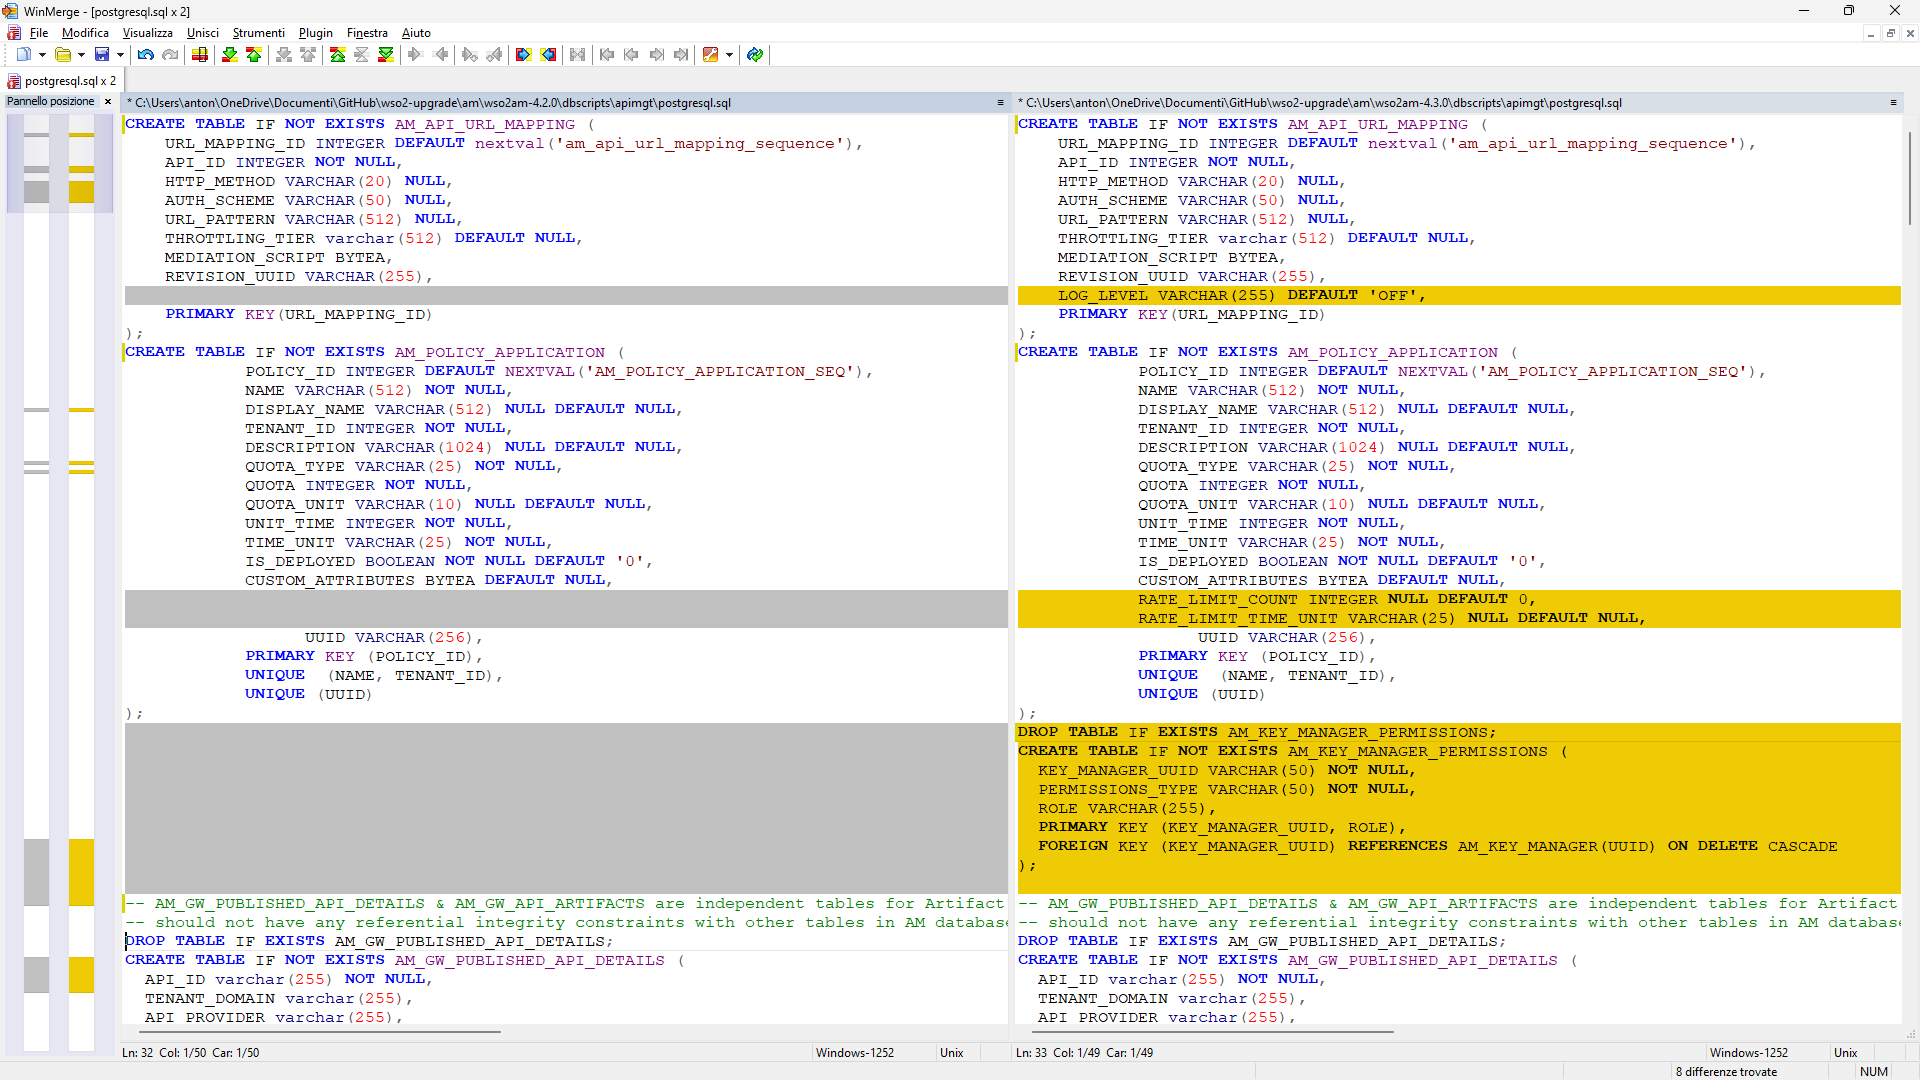
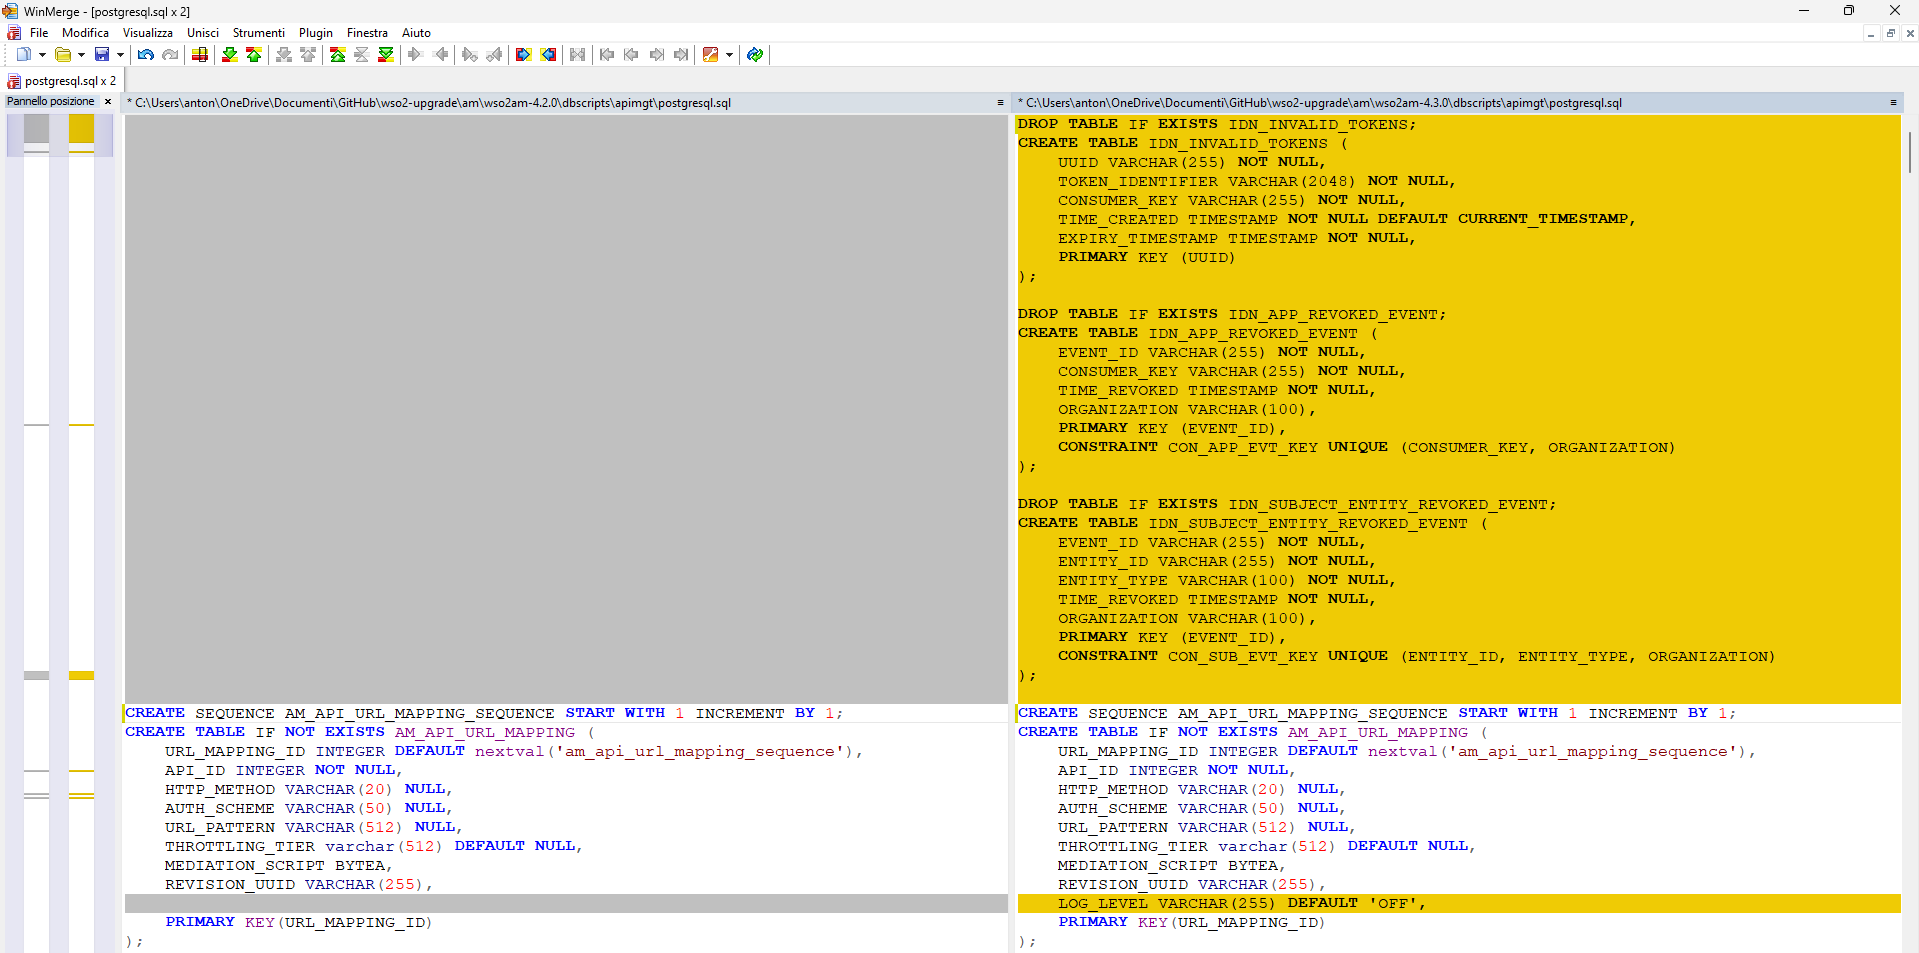
am 420to430

diff --git a/am/420to430/db/postgres/AM_DB-420to430.html b/am/420to430/db/postgres/AM_DB-420to430.html
@@ -29,21 +29,26 @@
 			font-family: Courier New;
 			font-size: 12px;
 		}
+		h1 { 
+			font-family: Courier New;
+			font-size: 24px;
+		}
 		img { 
 			width: 100%;
 		}
 		</style>
 	</head>
 	<body>
+		<h1>Attenzione: verificare la sintassi degli script per ADD, ALTER e DROP CONSTRAINT</h1>
 	<table>
 		<tr>
 			<th>AM 4.2.0 - WSO2AM_DB</th>
 			<th>AM 4.3.0 - WSO2AM_DB</th>
 			<th>Script</th>
 		</tr>
-		<!-- Screenshot 00 -->
+		<!-- Screenshot 01 -->
 		<tr>
-			<td colspan="2"><img src="img/420to430_00.png"></td>
+			<td colspan="2"><img src="img/420to430_01.png"></td>
 			<td>
 				<pre>
 DROP TABLE IF EXISTS IDN_INVALID_TOKENS;
@@ -76,28 +81,9 @@ CREATE TABLE IDN_SUBJECT_ENTITY_REVOKED_EVENT (
 	PRIMARY KEY (EVENT_ID),
 	CONSTRAINT CON_SUB_EVT_KEY UNIQUE (ENTITY_ID, ENTITY_TYPE, ORGANIZATION)
 );
+
+ALTER TABLE AM_API_URL_MAPPING ADD COLUMN LOG_LEVEL VARCHAR(255) DEFAULT 'OFF';
 				</pre>
-			</td>
-		</tr>
-		<!-- Screenshot 01 -->
-		<tr>
-			<td colspan="2"><img src="img/420to430_01.png"></td>
-			<td>
-				<ul>
-					<li>ALTER TABLE AM_API_URL_MAPPING ADD COLUMN LOG_LEVEL VARCHAR(255) DEFAULT 'OFF';</li>
-					<li>ALTER TABLE AM_POLICY_APPLICATION ADD COLUMN RATE_LIMIT_COUNT INTEGER NULL DEFAULT 0;</li>
-					<li>ALTER TABLE AM_POLICY_APPLICATION ADD COLUMN RATE_LIMIT_TIME_UNIT VARCHAR(25) NULL DEFAULT NULL;</li>
-					<li>DROP TABLE IF EXISTS AM_KEY_MANAGER_PERMISSIONS;</li>
-					<li><pre>
-CREATE TABLE IF NOT EXISTS AM_KEY_MANAGER_PERMISSIONS (
-	KEY_MANAGER_UUID VARCHAR(50) NOT NULL,
-	PERMISSIONS_TYPE VARCHAR(50) NOT NULL,
-	ROLE VARCHAR(255),
-	PRIMARY KEY (KEY_MANAGER_UUID, ROLE),
-	FOREIGN KEY (KEY_MANAGER_UUID) REFERENCES AM_KEY_MANAGER(UUID) ON DELETE CASCADE
-);
-				</pre></li>
-				</ul>
 			</td>
 		</tr>
 		<!-- Screenshot 02 -->
@@ -105,9 +91,19 @@ CREATE TABLE IF NOT EXISTS AM_KEY_MANAGER_PERMISSIONS (
 			<td colspan="2"><img src="img/420to430_02.png"></td>
 			<td>
 				<ul>
+					<li>ALTER TABLE AM_POLICY_APPLICATION ADD COLUMN RATE_LIMIT_COUNT INTEGER NULL DEFAULT 0;</li>
+					<li>ALTER TABLE AM_POLICY_APPLICATION ADD COLUMN RATE_LIMIT_TIME_UNIT VARCHAR(25) NULL DEFAULT NULL;</li>
+					<li><pre>
+DROP TABLE IF EXISTS AM_KEY_MANAGER_PERMISSIONS;
+CREATE TABLE IF NOT EXISTS AM_KEY_MANAGER_PERMISSIONS (
+	KEY_MANAGER_UUID VARCHAR(50) NOT NULL,
+	PERMISSIONS_TYPE VARCHAR(50) NOT NULL,
+	ROLE VARCHAR(255),
+	PRIMARY KEY (KEY_MANAGER_UUID, ROLE),
+	FOREIGN KEY (KEY_MANAGER_UUID) REFERENCES AM_KEY_MANAGER(UUID) ON DELETE CASCADE
+);
+					</pre></li>
 					<li>ALTER TABLE AM_DEPLOYMENT_REVISION_MAPPING ADD COLUMN REVISION_STATUS VARCHAR(255) NULL;</li>
-					<li>ALTER TABLE AM_GATEWAY_ENVIRONMENT ADD COLUMN TYPE VARCHAR(255) NULL;</li>
-					<li>ALTER TABLE AM_GATEWAY_ENVIRONMENT ADD COLUMN GATEWAY_TYPE VARCHAR(255) NOT NULL;</li>
 				</ul>
 			</td>
 		</tr>
@@ -115,7 +111,10 @@ CREATE TABLE IF NOT EXISTS AM_KEY_MANAGER_PERMISSIONS (
 		<tr>
 			<td colspan="2"><img src="img/420to430_03.png"></td>
 			<td>
-				<pre>
+				<ul>
+					<li>ALTER TABLE AM_GATEWAY_ENVIRONMENT ADD COLUMN TYPE VARCHAR(255) NULL;</li>
+					<li>ALTER TABLE AM_GATEWAY_ENVIRONMENT ADD GATEWAY_TYPE VARCHAR(255) NOT NULL;</li>
+					<li><pre>
 DROP TABLE IF EXISTS AM_GATEWAY_POLICY_METADATA;
 CREATE TABLE IF NOT EXISTS AM_GATEWAY_POLICY_METADATA (
 	GLOBAL_POLICY_MAPPING_UUID VARCHAR(45)   NOT NULL,
@@ -146,14 +145,7 @@ CREATE TABLE IF NOT EXISTS AM_GATEWAY_POLICY_DEPLOYMENT (
 	FOREIGN KEY (GLOBAL_POLICY_MAPPING_UUID) REFERENCES AM_GATEWAY_POLICY_METADATA (GLOBAL_POLICY_MAPPING_UUID) ON UPDATE CASCADE ON DELETE RESTRICT,
 	PRIMARY KEY (ORGANIZATION,GATEWAY_LABEL)
 );
-				</pre>
-			</td>
-		</tr>
-		<!-- Screenshot 04 -->
-		<tr>
-			<td colspan="2"><img src="img/420to430_04.png"></td>
-			<td>
-				<pre>
+
 DROP TABLE IF EXISTS AM_APP_REVOKED_EVENT;
 CREATE TABLE IF NOT EXISTS AM_APP_REVOKED_EVENT (
 	CONSUMER_KEY    VARCHAR(255)    NOT NULL,
@@ -170,7 +162,8 @@ CREATE TABLE IF NOT EXISTS AM_SUBJECT_ENTITY_REVOKED_EVENT (
 	ORGANIZATION    VARCHAR(100),
 	PRIMARY KEY (ENTITY_ID, ENTITY_TYPE, ORGANIZATION)
 );
-				</pre>
+					</pre></li>
+				</ul>
 			</td>
 		</tr>
 	</table>

diff --git a/am/420to430/db/postgres/README.md b/am/420to430/db/postgres/README.md
@@ -1,10 +1,7 @@
-# WSO2 APIM 4.1.0 to 4.2.0 PostGres DB Comparison
+# WSO2 APIM 4.3.0 to 4.3.0 PostGres DB Comparison
 
-Bla bla bla bla
+La tabella a <a href="https://html-preview.github.io/?url=https://github.com/antonioPetrocelli/wso2-upgrade/blob/master/am/420to430/db/postgres/AM_DB-420to430.html" target="_blank">AM_DB-420to430</a> mostra graficamente le differenze nella struttura del database PostGres WSO2AM_DB tra la versione 4.2.0 e la versione 4.3.0 e riporta gli script di aggiornamento da eseguire sul nuovo DB, creato a partire da una copia di quello utilizzato nella versione 4.2.0, per aggiornarlo alla versione 4.3.0
 
-<a href="https://html-preview.github.io/?url=https://github.com/antonioPetrocelli/wso2-upgrade/blob/master/am/410to420/db/postgres/410to420.html" target="_blank">clicca qua</a>
+Lo script di aggiornamento è [AM_DB-420to430.sql](AM_DB-420to430.sql)
 
-
-grassetto non sono certo
-
-verificare i drop sequence che c'erano già perchè vanno mantenuti
+Il Database WSO2SHARED_DB non ha differenze tra la versione 4.2.0 e la versione 4.3.0

diff --git a/is/600to610/db/postgres/README.md b/is/600to610/db/postgres/README.md
@@ -1,15 +1,3 @@
-# WSO2 APIM 4.1.0 to 4.2.0 PostGres DB Comparison
-
-Bla bla bla bla
-
-<a href="https://html-preview.github.io/?url=https://github.com/antonioPetrocelli/wso2-upgrade/blob/master/am/410to420/db/postgres/410to420.html" target="_blank">clicca qua</a>
-
-
-grassetto non sono certo
-
-verificare i drop sequence che c'erano già perchè vanno mantenuti
-
-
 # WSO2 IS 6.1.0 to 6.1.0 PostGres DB Comparison
 
 La tabella a <a href="https://html-preview.github.io/?url=https://github.com/antonioPetrocelli/wso2-upgrade/blob/master/is/600to610/db/postgres/IDENTITY_DB-600to610.html" target="_blank">IDENTITY_DB-600to610</a> mostra graficamente le differenze nella struttura del database PostGres WSO2IDENTITY_DB tra la versione 5.11.0 e la versione 6.0.0 e riporta gli script di aggiornamento da eseguire sul nuovo DB, creato a partire da una copia di quello utilizzato nella versione 5.11.0, per aggiornarlo alla versione 6.0.0
